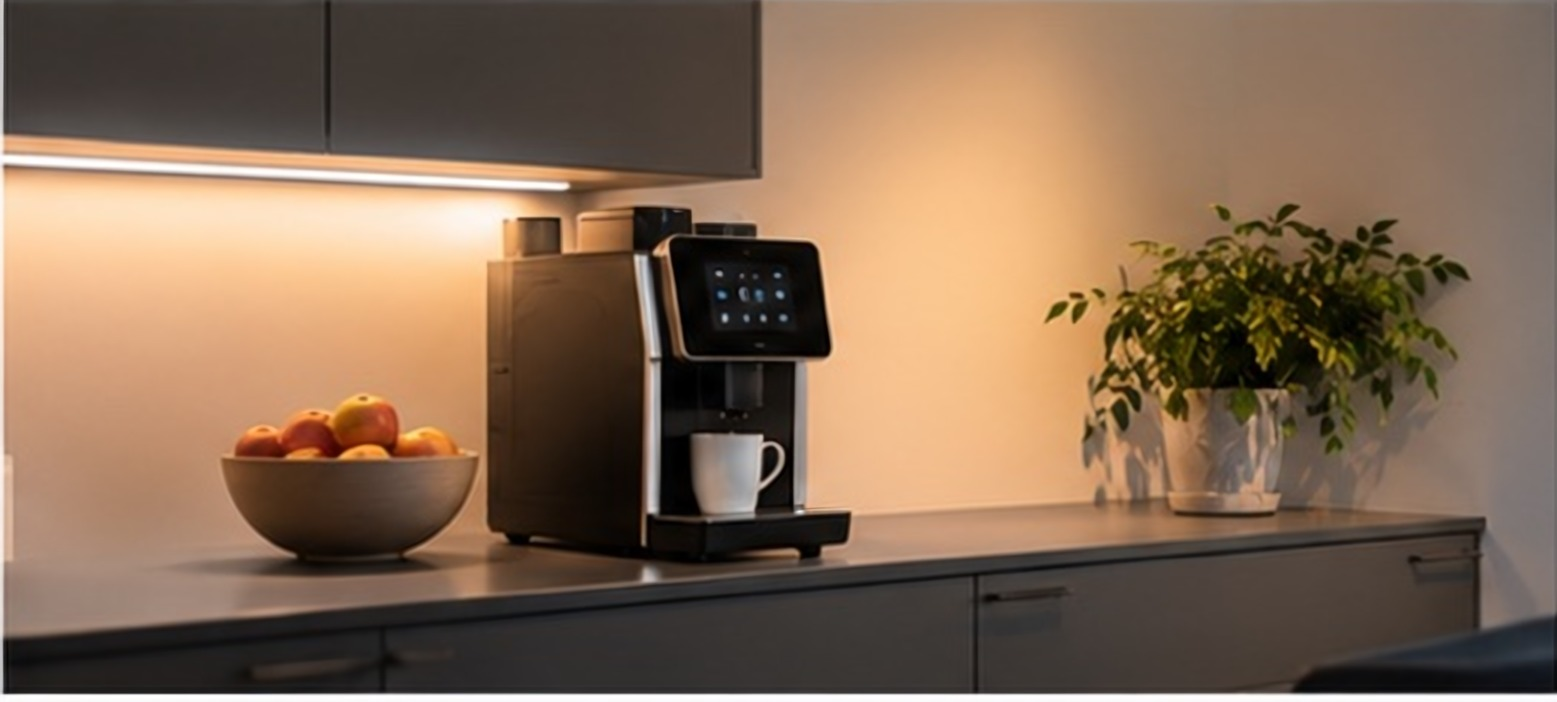
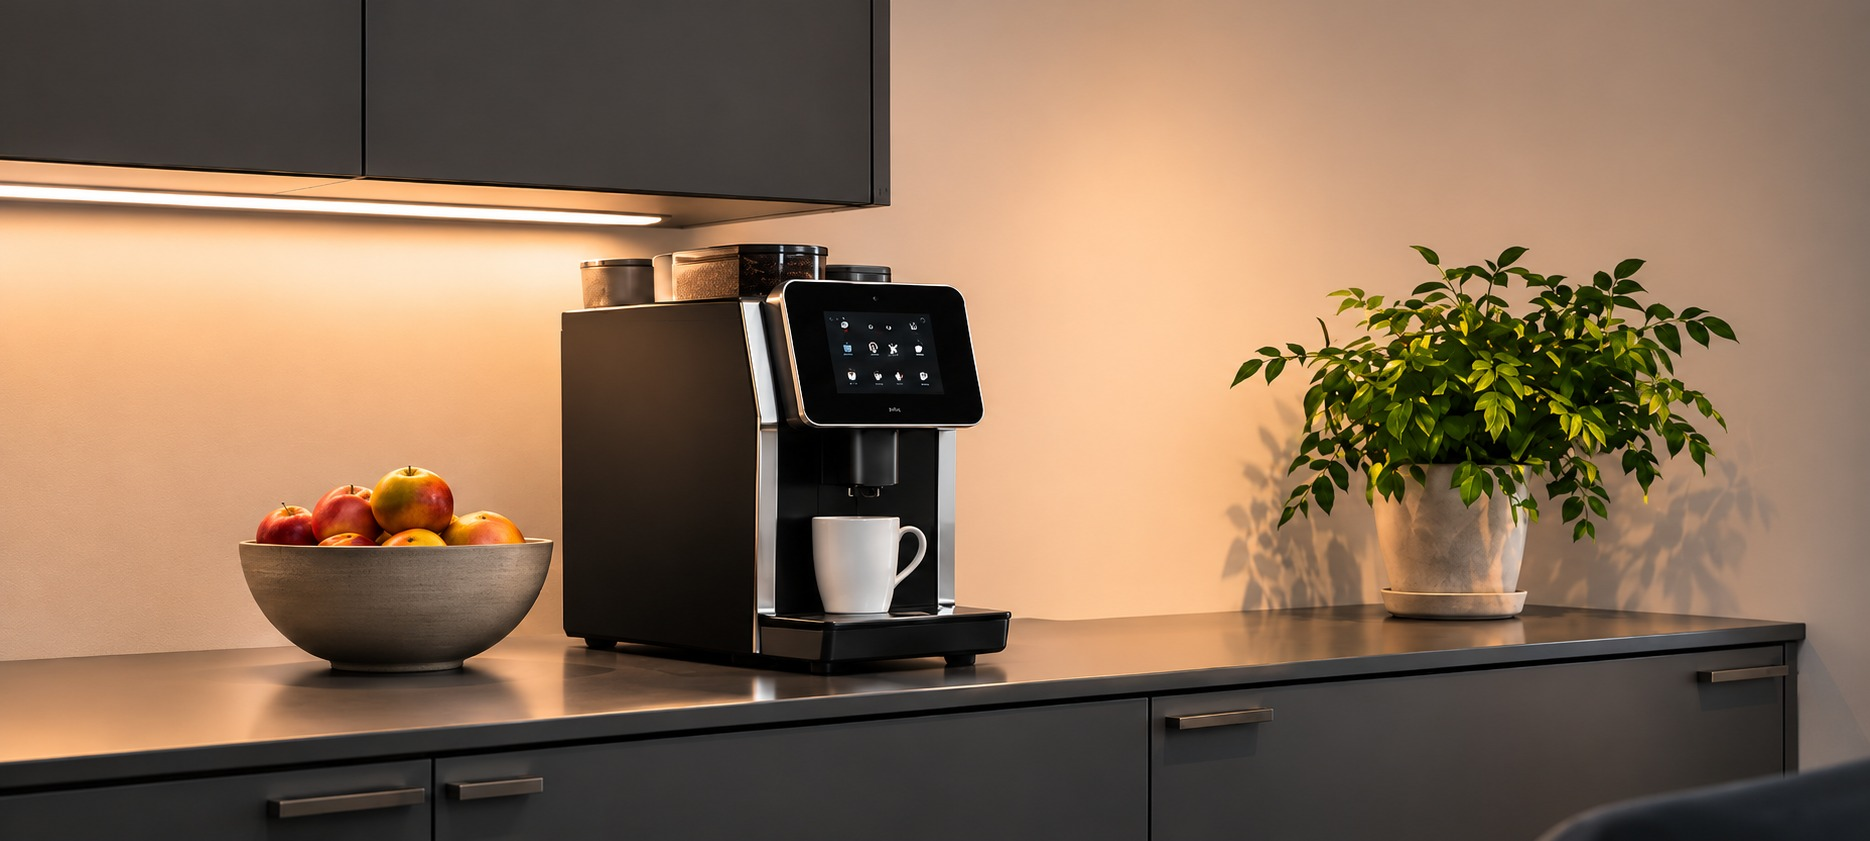
v1.4.1: nye bilder på Om oss og Kontakt, bilde på linje med teksten
Claude-Session: https://claude.ai/code/session_01B6H1BPw1z1rvwJ1D6qsxam

diff --git a/src/styles/global.css b/src/styles/global.css
@@ -645,7 +645,7 @@ main:focus { outline: none; }
 
   /* Contact: larger photo aligned with the details */
   .split-hero--contact { grid-template-columns: minmax(0, 0.9fr) minmax(0, 1.1fr); }
-  .split-hero--contact .contact-photo { align-self: start; margin-top: clamp(6.5rem, 8vw, 8.5rem); }
+  .split-hero--contact .contact-photo { align-self: start; margin-top: 3rem; } /* same top as the text column (its padding-top) */
   .split-hero--contact .contact-photo.photo--21x9 { aspect-ratio: 3 / 2; }
   .contact-details { max-width: 34rem; }
 }

diff --git a/CHANGELOG.md b/CHANGELOG.md
@@ -3,6 +3,13 @@
 Alle vesentlige endringer i nettsiden føres her. Versjonene følger [semantisk versjonering](https://semver.org/lang/no/):
 MAJOR for store omlegginger, MINOR for nye funksjoner eller synlige forbedringer, PATCH for rettelser.
 
+## [1.4.1] – 2026-11-24
+
+### Endret
+- Nytt og bedre bilde av logoen på glassveggen (Om oss og lysbildefremvisningen på forsiden).
+- Nytt bilde av kaffemaskinen på Kontakt-siden.
+- Kontakt (PC): bildet starter nå på samme høyde som teksten til venstre.
+
 ## [1.4.0] – 2026-11-23
 
 ### Endret
@@ -59,6 +66,7 @@ MAJOR for store omlegginger, MINOR for nye funksjoner eller synlige forbedringer
 - Statisk Astro-side uten JavaScript, streng sikkerhetsprofil (CSP m.m.) og generert `.htaccess`, `_headers`, `_redirects`.
 - GitHub Pages-workflow for testversjon (noindex og egen `robots.txt`).
 
+[1.4.1]: https://github.com/kfenger/pro-revisjon/compare/v1.4.0...v1.4.1
 [1.4.0]: https://github.com/kfenger/pro-revisjon/compare/v1.3.0...v1.4.0
 [1.3.0]: https://github.com/kfenger/pro-revisjon/compare/v1.2.0...v1.3.0
 [1.2.0]: https://github.com/kfenger/pro-revisjon/compare/v1.1.0...v1.2.0
